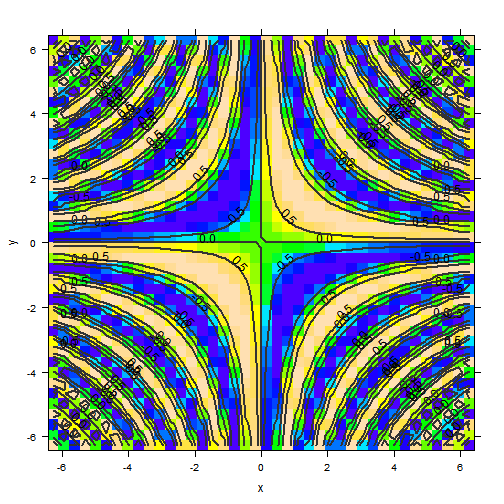
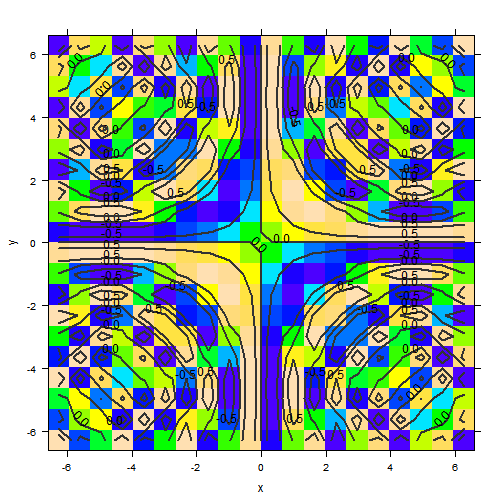
Clean up m04; recompile

diff --git a/modules/04/Module.html b/modules/04/Module.html
@@ -47,17 +47,6 @@ code > span.er { color: #ff0000; font-weight: bold; }
 <li><a href="#loading-the-mosaic-package">Loading the <code>mosaic</code> package</a></li>
 </ul>
 </div>
-<pre><code>## Warning: the condition has length &gt; 1 and only the first element will be
-## used</code></pre>
-<pre><code>## Attaching package: &#39;mosaic&#39;
-## 
-## The following objects are masked from &#39;package:stats&#39;:
-## 
-## binom.test, cor, cov, D, fivenum, IQR, median, prop.test, sd, t.test, var
-## 
-## The following object is masked from &#39;package:base&#39;:
-## 
-## max, mean, min, print, prod, range, sample, sum</code></pre>
 <p>Today we introduced the R Studio mathematical programming environment. Check out the <a href="../decks/03/Deck.pdf">presentation</a> for an overview. If you missed class, you need to find someone to get you up to speed. There was a request for a file containing some of the work we did together in class. Instructions on how to get and use that file follow.</p>
 <h3 id="files-and-directories"><a href="#files-and-directories">Files and directories</a></h3>
 <p>The R Studio server runs on the Linux operating system. Files are organized into directories (the same thing as folders, really). There is a <em>root directory</em> that contains all of the other files and directories on the server. Its name is</p>
@@ -102,7 +91,7 @@ You should see the copied file in your home directory.
 <p>The script we’ve been working with requires an R package called <code>mosaic</code>. The first line of the script (that isn’t a comment) makes sure this package is loaded. Otherwise, the commands <code>makeFun()</code> and <code>plotFun()</code> won’t make sense to R and it will complain.</p>
 <p>To use these commands in later sessions, you will have to make sure the package is loaded. This is accomplished via the Packages tab in the lower right pane. Scroll down until you find <code>mosaic</code> and check its box. This setting should persist across sessions, but if familiar commands begin to throw errors, this may be the culprit.</p>
 <pre class="sourceCode r"><code class="sourceCode r"><span class="kw">plotFun</span>(<span class="kw">sin</span>(x *<span class="st"> </span>y) ~<span class="st"> </span>x &amp;<span class="st"> </span>y, <span class="dt">xlim =</span> <span class="kw">c</span>(-<span class="dv">2</span> *<span class="st"> </span>pi, <span class="dv">2</span> *<span class="st"> </span>pi), <span class="dt">ylim =</span> <span class="kw">c</span>(-<span class="dv">2</span> *<span class="st"> </span>pi, <span class="dv">2</span> *<span class="st"> </span>
-<span class="st">    </span>pi), <span class="dt">nlevel =</span> <span class="dv">20</span>)</code></pre>
+<span class="st">    </span>pi), <span class="dt">npts =</span> <span class="dv">20</span>)</code></pre>
 <p><img src="figure/fig01.png" title="plot of chunk fig01" alt="plot of chunk fig01" style="display: block; margin: auto;" /></p>
 <ul class="nav">
 <li class="nav"><a class = "nav" href = "../02/Module.html">Back</a></li>

diff --git a/modules/04/Module.md b/modules/04/Module.md
@@ -4,24 +4,6 @@
 % September 13, 2013
 
 
-```
-## Warning: the condition has length > 1 and only the first element will be
-## used
-```
-
-
-
-```
-## Attaching package: 'mosaic'
-## 
-## The following objects are masked from 'package:stats':
-## 
-## binom.test, cor, cov, D, fivenum, IQR, median, prop.test, sd, t.test, var
-## 
-## The following object is masked from 'package:base':
-## 
-## max, mean, min, print, prod, range, sample, sum
-```
 
 
 Today we introduced the R Studio mathematical programming environment. Check out the [presentation][d03] for an overview. If you missed class, you need to find someone to get you up to speed. There was a request for a file containing some of the work we did together in class. Instructions on how to get and use that file follow.
@@ -78,7 +60,7 @@ To use these commands in later sessions, you will have to make sure the package 
 
 ```r
 plotFun(sin(x * y) ~ x & y, xlim = c(-2 * pi, 2 * pi), ylim = c(-2 * pi, 2 * 
-    pi), nlevel = 20)
+    pi), npts = 20)
 ```
 
 <img src="figure/fig01.png" title="plot of chunk fig01" alt="plot of chunk fig01" style="display: block; margin: auto;" />
